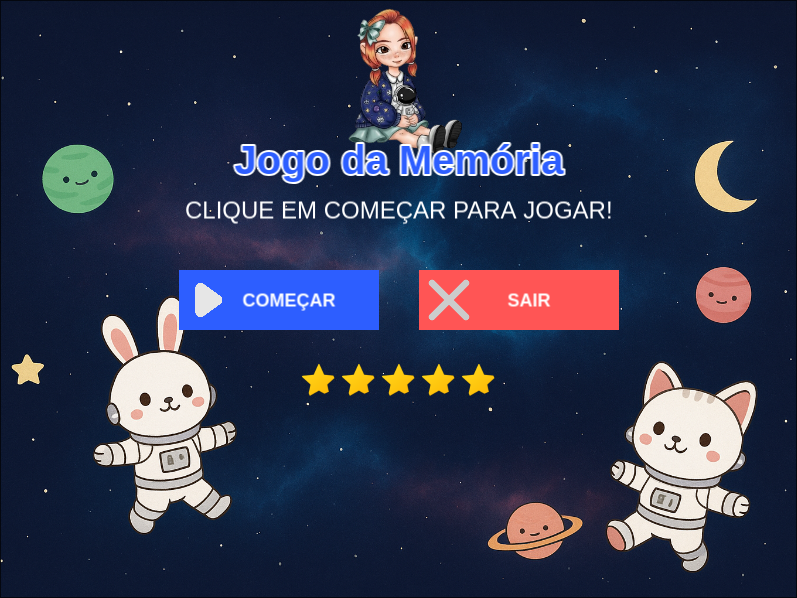
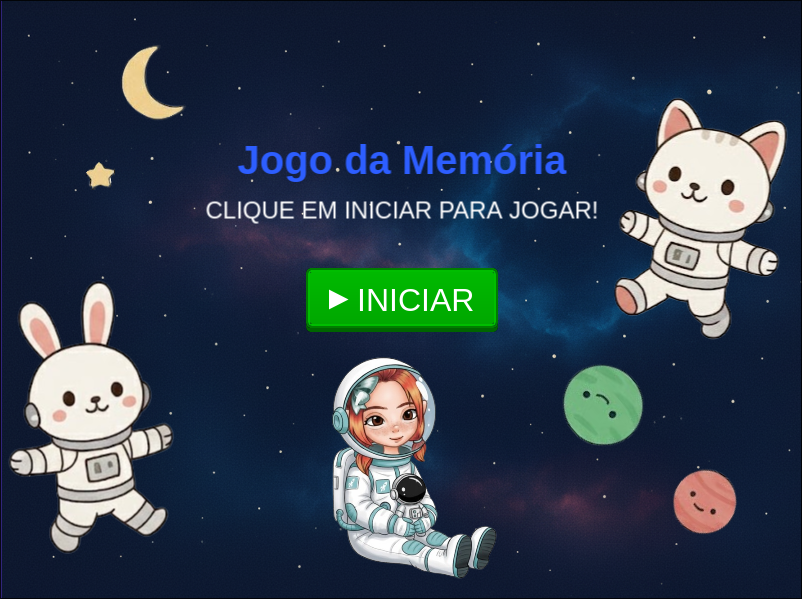
fix: adiciona interligação com backend e muda foto do card de jogo

diff --git a/src/components/features/games/MemoryGame.tsx b/src/components/features/games/MemoryGame.tsx
@@ -1,23 +1,31 @@
 import { Footer } from "@/components/Footer/Footer";
 import { Header } from "@/components/Header/Header";
+import { BackButton } from "@/components/utils/BackButton";
 import { EventBus } from "@/games/common/utils/EventBus";
 import { MemoryEndScene } from "@/games/memory/scenes/EndScene";
 import { MemoryGameScene } from "@/games/memory/scenes/GameScene";
 import { MemoryLevelCompleteScene } from "@/games/memory/scenes/LevelCompleteScene";
 import { MemoryMenuScene } from "@/games/memory/scenes/MenuScene";
+import { useUser } from "@/hooks/User/useUser";
 import Phaser from "phaser";
 import { useEffect, useRef } from "react";
-import { BackButton } from "@/components/utils/BackButton";
 
 export interface IRefMemoryGame {
   game: Phaser.Game | null;
   scene: Phaser.Scene | null;
 }
 
-export const MemoryGame = () => {
+interface MemoryGameProps {
+  activityId?: number;
+}
+
+export const MemoryGame = ({ activityId = 4 }: MemoryGameProps) => {
   const gameRef = useRef<Phaser.Game | null>(null);
+  const { user } = useUser();
 
   useEffect(() => {
+    if (gameRef.current) return;
+
     const config: Phaser.Types.Core.GameConfig = {
       type: Phaser.AUTO,
       width: 800,
@@ -34,16 +42,24 @@ export const MemoryGame = () => {
 
     gameRef.current = new Phaser.Game(config);
 
+    const setupGame = () => {
+      const scene = gameRef.current?.scene.scenes[1] as MemoryGameScene; // MemoryGameScene é a segunda cena
+      if (scene && user?.codigo_usuario) {
+        scene.setUserId(user.codigo_usuario.toString());
+        scene.setActivityId(activityId);
+      }
+    };
+    setTimeout(setupGame, 100);
+
     EventBus.once("current-scene-ready", (log: string) => {
       console.log({ log });
     });
 
     return () => {
-      if (gameRef.current) {
-        gameRef.current.destroy(true);
-      }
+      gameRef.current?.destroy(true);
+      gameRef.current = null;
     };
-  }, []);
+  }, [user, activityId]);
 
   return (
     <>

diff --git a/src/games/memory/scenes/GameScene.ts b/src/games/memory/scenes/GameScene.ts
@@ -4,13 +4,23 @@ import { MemoryGameLogic } from "../logic/MemoryGameLogic";
 export class MemoryGameScene extends Phaser.Scene {
   private logic!: MemoryGameLogic;
   private gameDataTimer?: Phaser.Time.TimerEvent;
+  private userId?: string;
+  private activityId?: number;
 
   constructor() {
     super({ key: "MemoryGameScene" });
   }
 
+  setUserId(userId: string) {
+    this.userId = userId;
+  }
+
+  setActivityId(activityId: number) {
+    this.activityId = activityId;
+  }
+
   init(data: { resetGame?: boolean } = {}) {
-    this.logic = new MemoryGameLogic(this);
+    this.logic = new MemoryGameLogic(this, this.userId, this.activityId);
 
     if (data.resetGame) {
       this.logic.resetGame();
@@ -62,11 +72,12 @@ export class MemoryGameScene extends Phaser.Scene {
     try {
       const attempts = this.logic.getCurrentAttempts();
       const levelTime = this.logic.getCurrentLevelTime();
-      const currentQuestionIndex = this.logic.getAbsoluteQuestionIndex();
+      // const currentQuestionIndex = this.logic.getAbsoluteQuestionIndex();
 
       const gameData = {
-        activityId: 1,
-        questionId: currentQuestionIndex + 1,
+        studentId: Number(this.userId) || 10130001,
+        activityId: this.activityId || 4,
+        questionId: 1,
         attempts: attempts,
         timeSpent: levelTime,
         responseDate: this.time.now,

diff --git a/src/games/memory/logic/MemoryGameLogic.ts b/src/games/memory/logic/MemoryGameLogic.ts
@@ -17,6 +17,8 @@ export class MemoryGameLogic {
   private levelStartTime: number = 0;
   private isShowingInitialCards: boolean = false;
   private gameStarted: boolean = false;
+  private userId?: string;
+  private activityId?: number;
 
   private textColors = [
     "#FF0000",
@@ -29,11 +31,13 @@ export class MemoryGameLogic {
     "#4400FF",
   ];
 
-  constructor(scene: Phaser.Scene) {
+  constructor(scene: Phaser.Scene, userId?: string, activityId?: number) {
     this.scene = scene;
     this.gameLevels = GameLevels;
     this.currentLevelIndex = 0;
     this.currentQuestionIndex = 0;
+    this.userId = userId;
+    this.activityId = activityId;
 
     this.EffectManager = new EffectManager(scene);
     this.gameStats = new GameStats();
@@ -430,7 +434,8 @@ export class MemoryGameLogic {
     try {
       const sendData = async () => {
         const levelData = {
-          activityId: 1,
+          studentId: Number(this.userId) || 10130001,
+          activityId: this.activityId || 4,
           questionId: this.getAbsoluteQuestionIndex(),
           isCorrect: true,
           answer: "ok",
